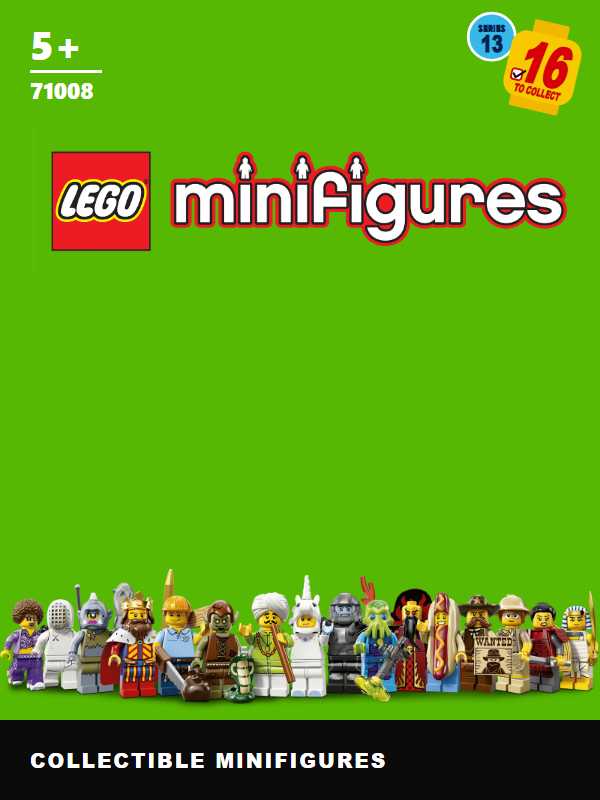
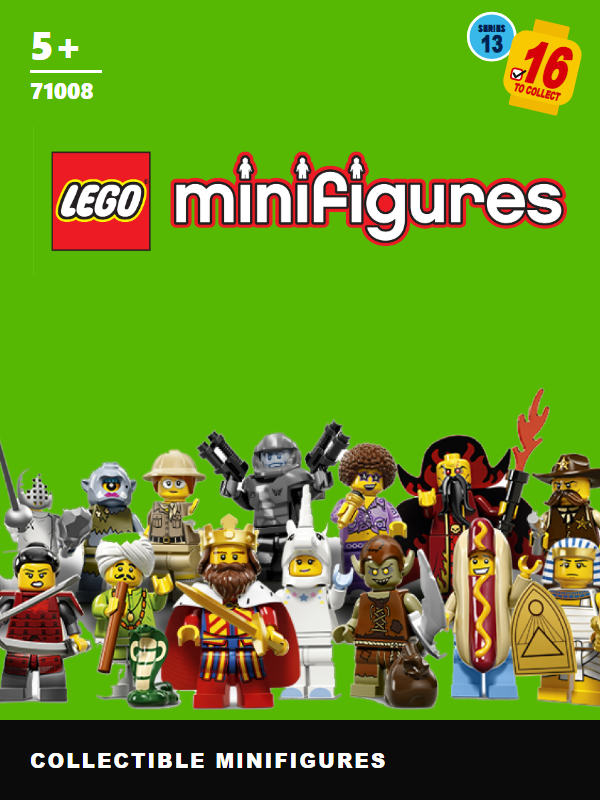
feat(V2-11): crowd photo for 71008 from Brickipedia render
Official Series 13 group render (owner pointer). Shadow mask removes
the grey floor shadows and keeps the white fencer. Last grid series
is gone: all 52 cards now use crowd photos.

Changed region(s): [[0.0, 0.4688, 1.0, 0.9062]]

diff --git a/scripts/prep_group.py b/scripts/prep_group.py
@@ -32,6 +32,8 @@ PREP = {
     # 8684: official box-back art (blue "?" background); crop drops the bottom logo row and the "16" badge.
     "8684": ("8684-1.jpg", (0.06, 0.27, 0.93, 0.74), "blue", None),
     "71007": ("71007-1.jpg", None, "white", None),
+    # 71008: official render from Brickipedia (owner pointer 2026-11-14); the PNG alpha is fully opaque, white bg.
+    "71008": ("71008-1.png", None, "shadow", None),
     "71017": ("71017-1.png", (0, 0.08, 1, 0.455), "white", None),
     "71023": ("71023-1.jpg", (0, 0.2, 1, 0.9), "grabcut", None),
     # 71031: the previous card image (already transparent); only the largest part (the ground crowd) is kept, which

diff --git a/mockups/V2-11/crowd-candidates/SOURCES.md b/mockups/V2-11/crowd-candidates/SOURCES.md
@@ -20,3 +20,4 @@ Still missing: 8683, 8684, 71002, 8909 (next: Brickset/Brick Owl/BrickLink set p
 Hunt 3 (2026-11-09): 8684 and 71008 none found (Brickset 8684-17 and 71008-17 are stand grids; Brickset Series 13 promo has podiums and text). 71031: no better packed render than the current one.
 Used for cards 2026-11-09 by scripts/prep_group.py: 8683-2, 8803-1, 8805-1, 8831-1, 8833-1, 71000-2, 8909-1, 71002-1, 71007-1, 71017-1 (top crowd), 71023-1 (watermark cropped), 71031-0.
 - 8684-1.jpg (690x480) — PAGE: https://lego.razfill.ru/all-lego/lego-8684-minifigures-series-2 SOURCE: https://images.brickset.com/sets/images/8684-18.jpg — official box-back art, true crowd of 16 on blue "?" background; Series 2 badge erased, blue keyed out (prep_group.py method "blue"). Hunt 5 (2026-11-11, Bing Images): 71008 none found (Brickset 71008-17 stand grid, eBay 5x3 grid on white).
+- 71008-1.png (1000x460) — PAGE: https://brickipedia.fandom.com/wiki/71008_Minifigures_Series_13 (owner pointer 2026-11-14) SOURCE: https://static.wikia.nocookie.net/lego/images/b/b5/Series_13.png — official render, true crowd of 16; PNG alpha fully opaque (white bg), cut with method "shadow".
